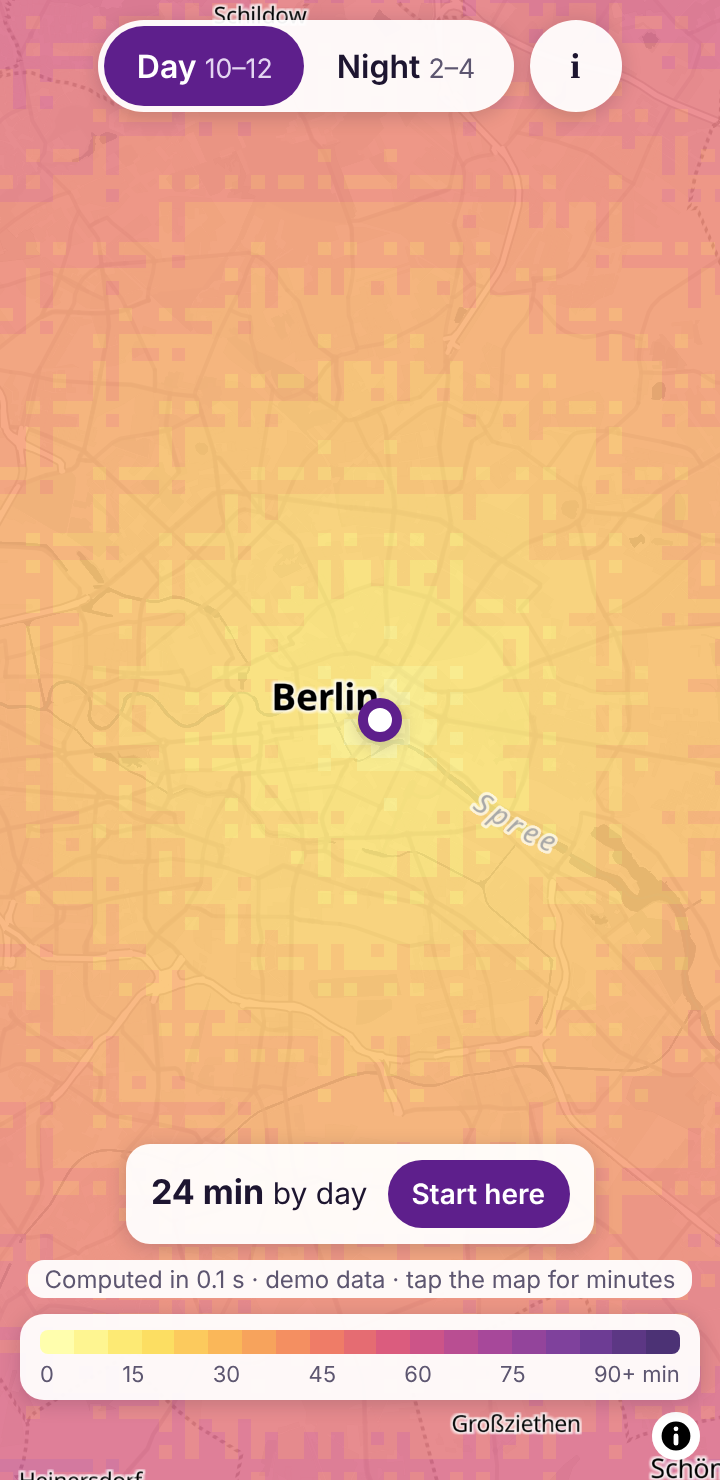
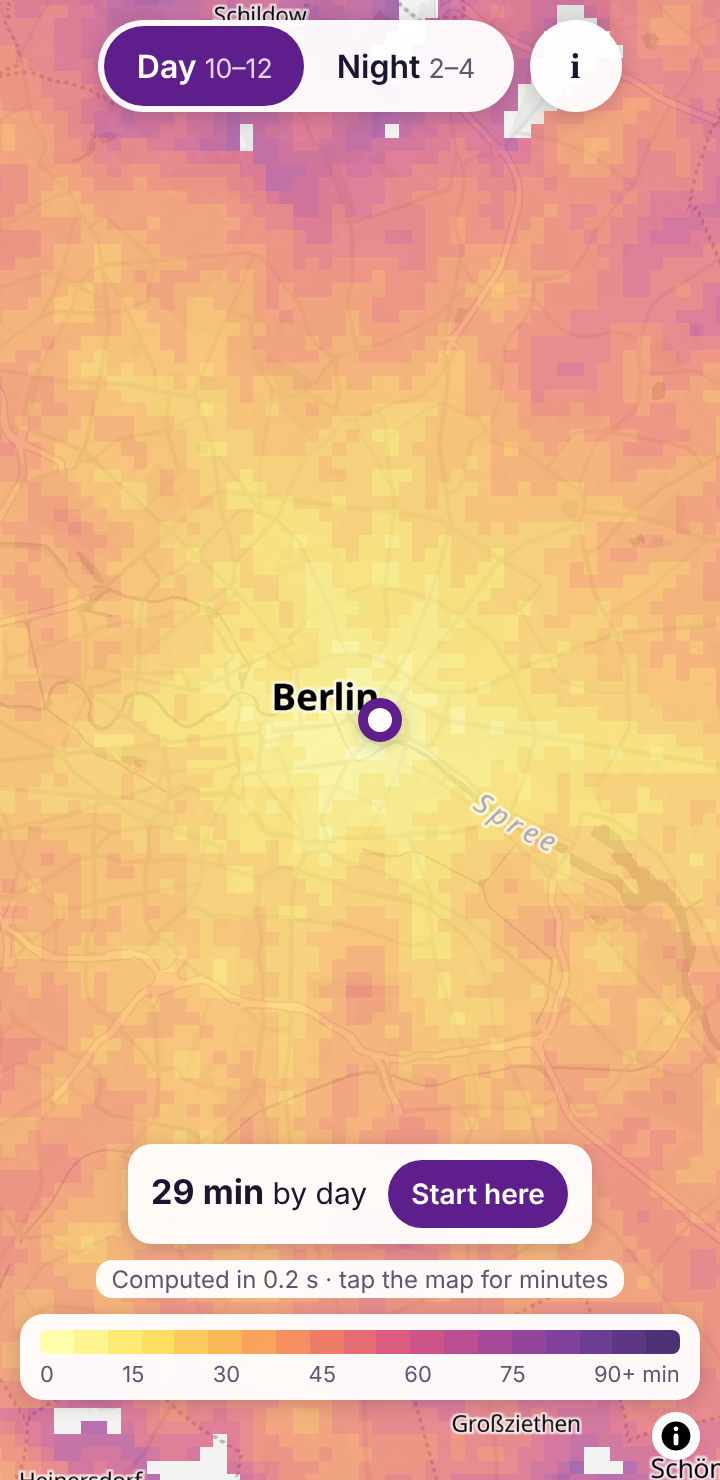
Switch web app to the real routing package
Replace the distance-based stub with @berlin-transit-heatmap/routing and
drop the demo-data fallback; a missing timetable now shows an error.
Screenshots retaken against the published timetable-latest files.

Claude-Session: https://claude.ai/code/session_01LyfPyn9E8Gitv8VpXxZYyk

diff --git a/packages/web/src/worker.ts b/packages/web/src/worker.ts
@@ -6,8 +6,7 @@ import {
   travelTimes,
   type PreparedTimetable,
   type Timetable,
-} from './routing';
-import { demoTimetable } from './demo-data';
+} from '@berlin-transit-heatmap/routing';
 import type { FromWorker, ToWorker, Window } from './protocol';
 
 const ctx = self as unknown as DedicatedWorkerGlobalScope;
@@ -15,16 +14,11 @@ const post = (m: FromWorker) => ctx.postMessage(m);
 const loading = new Map<Window, Promise<PreparedTimetable>>();
 let dataBase = '';
 
-async function fetchTimetable(window: Window): Promise<{ json: Timetable; demo: boolean }> {
+async function fetchTimetable(window: Window): Promise<Timetable> {
   const url = new URL(`timetable-${window}.json`, dataBase);
-  let res: Response;
-  try {
-    res = await fetch(url);
-  } catch {
-    return { json: demoTimetable(window), demo: true };
-  }
+  const res = await fetch(url);
   if (!res.ok || !res.headers.get('content-type')?.includes('json') || !res.body) {
-    return { json: demoTimetable(window), demo: true };
+    throw new Error(`Timetable not available (${res.status} for ${url.pathname})`);
   }
   // Content-Length is the compressed size when the server gzips, so progress is approximate.
   const total = Number(res.headers.get('content-length')) || 0;
@@ -44,13 +38,13 @@ async function fetchTimetable(window: Window): Promise<{ json: Timetable; demo: 
     buf.set(c, off);
     off += c.length;
   }
-  return { json: JSON.parse(new TextDecoder().decode(buf)) as Timetable, demo: false };
+  return JSON.parse(new TextDecoder().decode(buf)) as Timetable;
 }
 
 function ensure(window: Window): Promise<PreparedTimetable> {
   let p = loading.get(window);
   if (!p) {
-    p = fetchTimetable(window).then(({ json, demo }) => {
+    p = fetchTimetable(window).then((json) => {
       const tt = loadTimetable(json);
       post({
         type: 'loaded',
@@ -59,7 +53,6 @@ function ensure(window: Window): Promise<PreparedTimetable> {
           serviceDate: json.serviceDate,
           feedVersion: json.feedVersion,
           stops: json.stops.length,
-          demo,
         },
       });
       return tt;

diff --git a/packages/web/src/main.ts b/packages/web/src/main.ts
@@ -60,8 +60,7 @@ worker.onmessage = (ev: MessageEvent<FromWorker>) => {
     lastResult = m.geojson;
     (map.getSource(HEAT_SOURCE) as GeoJSONSource | undefined)?.setData(m.geojson);
     loadbar.hidden = true;
-    const demo = state.info[m.window]?.demo ? ' · demo data' : '';
-    statusEl.textContent = `Computed in ${(m.totalMs / 1000).toFixed(1)} s${demo} · tap the map for minutes`;
+    statusEl.textContent = `Computed in ${(m.totalMs / 1000).toFixed(1)} s · tap the map for minutes`;
   } else if (m.type === 'error') {
     loadbar.hidden = true;
     statusEl.textContent = `Something went wrong: ${m.message}`;
@@ -72,9 +71,6 @@ function renderFeedInfo() {
   const i = state.info[state.window];
   if (!i) {
     feedInfo.textContent = 'Loading timetable…';
-  } else if (i.demo) {
-    feedInfo.textContent =
-      'No timetable published yet, so the map shows made-up demo times based on distance.';
   } else {
     feedInfo.textContent = `Timetable from VBB, service day ${i.serviceDate} (feed ${i.feedVersion}, ${i.stops.toLocaleString('en')} stops).`;
   }

diff --git a/packages/web/src/protocol.ts b/packages/web/src/protocol.ts
@@ -13,7 +13,6 @@ export interface TimetableInfo {
   serviceDate: string;
   feedVersion: string;
   stops: number;
-  demo: boolean;
 }
 
 export type FromWorker =

diff --git a/packages/web/README.md b/packages/web/README.md
@@ -9,8 +9,7 @@ pnpm --dir packages/web build     # -> packages/web/dist
 ```
 
 - Timetables are fetched from `./data/timetable-{day,night}.json` (copied in by `deploy-pages.yml`
-  from the `timetable-latest` release). Without them the app falls back to made-up demo data.
-  For local testing with real data, drop the release files into `packages/web/public/data/`.
-- Routing runs in a Web Worker (`src/worker.ts`) through `src/routing/index.ts`, the single
-  switch point between the temporary stub and the `routing` package.
+  from the `timetable-latest` release). For local testing, drop the release files into
+  `packages/web/public/data/`.
+- Routing runs in a Web Worker (`src/worker.ts`) using `@berlin-transit-heatmap/routing`.
 - `?from=lat,lon&w=night` in the URL restores a start point and window.
